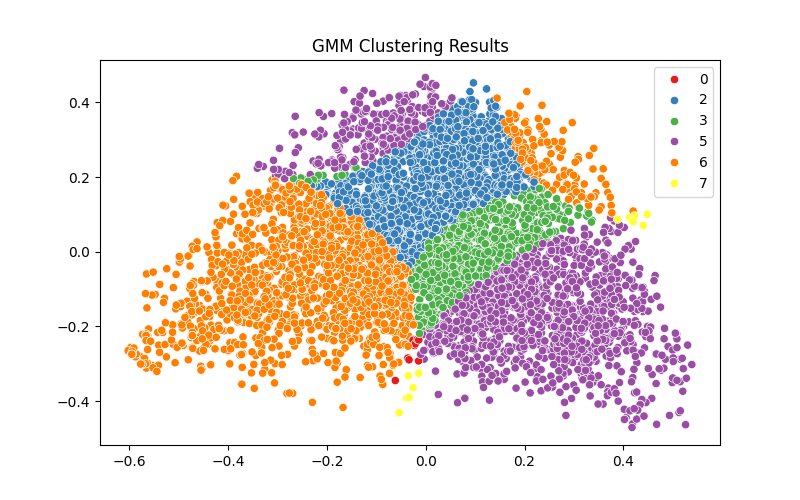
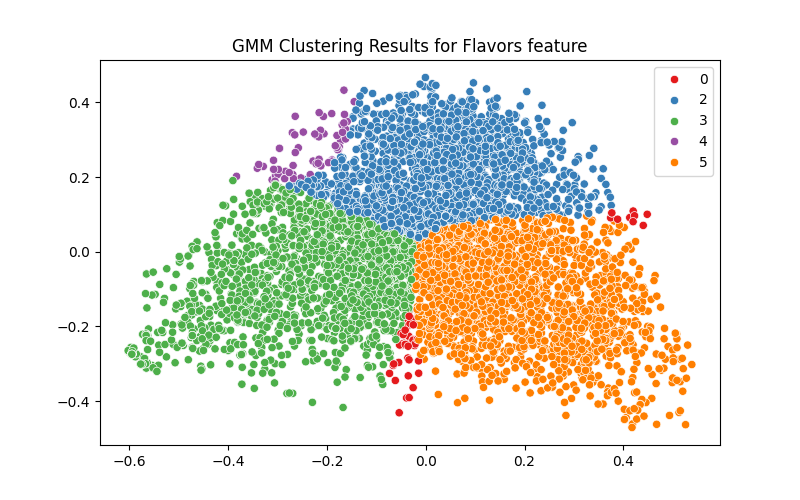
Pre documentation draft

diff --git a/code/HW2.py b/code/HW2.py
@@ -318,15 +318,15 @@ def GMM():
     plt.ylabel('Log-Likelihood')
     plt.title('Elbow Method for Choosing n_components')
     plt.show()
-    optimal_k = 8
+    optimal_k = 4
     # GMM Clustering
-    gmm = GaussianMixture(n_components=8, random_state=42, init_params='random', covariance_type='full')
+    gmm = GaussianMixture(n_components=optimal_k, random_state=42, init_params='random', covariance_type='full')
     gmm_labels = gmm.fit_predict(X_pca)
     
     # Visualize GMM results
     plt.figure(figsize=(8, 5))
     sns.scatterplot(x=X_pca[:, 0], y=X_pca[:, 1], hue=gmm_labels, palette='Set1')
-    plt.title('GMM Clustering Results')
+    plt.title('GMM Clustering Results for Ingredients feature')
     plt.show()
 
     #For flavors:
@@ -343,15 +343,15 @@ def GMM():
     plt.ylabel('Log-Likelihood')
     plt.title('Elbow Method for Choosing n_components')
     plt.show()
-    optimal_k = 8
+    optimal_k = 10
     # GMM Clustering
-    gmm = GaussianMixture(n_components=8, random_state=42, init_params='random', covariance_type='full')
+    gmm = GaussianMixture(n_components=optimal_k, random_state=42, init_params='random', covariance_type='full')
     gmm_labels = gmm.fit_predict(X_pca)
     
     # Visualize GMM results
     plt.figure(figsize=(8, 5))
     sns.scatterplot(x=X_pca[:, 0], y=X_pca[:, 1], hue=gmm_labels, palette='Set1')
-    plt.title('GMM Clustering Results')
+    plt.title('GMM Clustering Results for Flavors feature')
     plt.show()
 
 if __name__ == '__main__':
@@ -364,20 +364,21 @@ if __name__ == '__main__':
     df_ingr = yum_ingrX.copy()
     df_ingr['cuisine'] = yum_ingr['cuisine']
     df_ingr['recipeName'] = yum_ingr['recipeName']
-    # tsne_cluster_cuisine(df_ingr,sublist)
+    tsne_cluster_cuisine(df_ingr,sublist)
 
     #select all unique cuisines and plot tsne clustering with flavor
     sublist = yum_ingr['cuisine'].unique()
     df_flavor = yum_tfidf.copy()
     df_flavor['cuisine'] = yum_ingr['cuisine']
     df_flavor['recipeName'] = yum_ingr['recipeName']
-    # tsne_cluster_cuisine(df_flavor,sublist)
+    tsne_cluster_cuisine(df_flavor,sublist)
     
     # Drop non-numeric columns if any, like 'cuisine' or 'recipeName'
     df_X_ingr = df_ingr.drop(columns=['cuisine', 'recipeName'], errors='ignore')  # Use errors='ignore' to skip if those columns don't exist
     df_X_ingr = pd.get_dummies(df_X_ingr, columns=df_X_ingr.columns, drop_first=True)
     df_X_flavor = df_flavor.drop(columns=['cuisine', 'recipeName'], errors='ignore')  # Use errors='ignore' to skip if those columns don't exist
     # df_X_flavor = pd.get_dummies(df_X_flavor, columns=df_X_flavor.columns, drop_first=True)
+    
     # Check if the DataFrame is empty
     if df_X_ingr.empty:
         print("DataFrame df_X is empty!")
@@ -405,8 +406,8 @@ if __name__ == '__main__':
     df_ingr_scaled = scaler.fit_transform(df_X_ingr)
     df_flavor_scaled = scaler.fit_transform(df_X_flavor)
 
-    # X_pca = pca(0)
-    # elbow_Sil()
-    # K_Means()
-    # DBScan()
+    X_pca = pca(0)
+    elbow_Sil()
+    K_Means()
+    DBScan()
     GMM()
